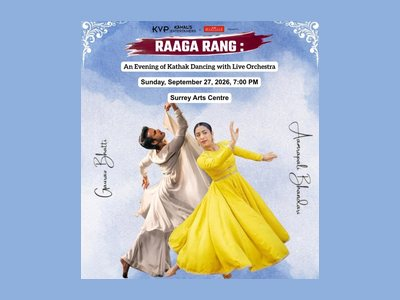
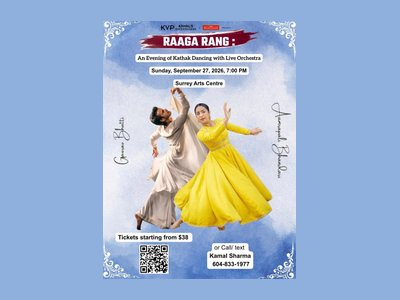
Give each event the full detail from its poster and its box office
An event listing now carries who dances, who plays, who composed and directed
the work, the running time, the street address, and every way to book. The
artist detail comes from sources outside the source post: The Dance Centre for
Gaurav Bhatti, the Singapore Indian Fine Arts Society for Amrapali Bhandari,
and tanveerdance.com for Tanveer Alam.

A booking number is published to sell tickets, so an event may print one. The
Raaga Rang plate is the whole poster again, with its QR code and its booking
number. The rule against a personal phone number still holds for an artist
listing.

diff --git a/CLAUDE.md b/CLAUDE.md
@@ -145,8 +145,16 @@ image: 2026-09-14-recital       # optional, a set in assets/events/
 credit: Photographer Name       # optional, shown under the event
 ---
 
-Two or three factual sentences.
+Four to eight factual sentences. Give the reader the detail that the poster
+and the box office carry: who dances, who plays, who composed and directed the
+work, the running time, the street address, and every way to book. Research
+the artists outside the source post and name their training and their gurus.
 ```
+
+An event may carry a phone number when the poster or the box office prints one
+for booking. That number is published for the event, so it is not a personal
+contact. The rule against personal phone numbers still holds for an artist
+listing in `_artists/`.
 
 **Do not name the link field `url`.** Jekyll defines `url` on every document.
 A front matter `url:` is ignored, and the rendered link points to a
@@ -237,7 +245,9 @@ string. The request never leaves the Cloudflare edge, so the site needs no
 ## Editorial principles
 
 - **Public information only** — websites, public Instagram, neighborhood-level
-  location. Never home addresses or personal phone numbers.
+  location. Never home addresses. Never a personal phone number in an artist
+  listing. An event may carry the booking number that its poster or its box
+  office prints, because that number is published to sell tickets.
 - **Free** — no ads, no marketplace, no payment.
 - **Removal on request** — anyone listed can ask to be edited or removed at
   `hello@kathakvancouver.com` (see `/submit/`).

diff --git a/_events/2026-10-25-tanveer-alam-kathak.md b/_events/2026-10-25-tanveer-alam-kathak.md
@@ -11,11 +11,14 @@ image: 2026-10-25-tanveer-alam-kathak
 credit: Srivatsa Shandilya and One Frame Story Photography. Poster by little bird creative.
 ---
 
-Toronto Kathak artist Tanveer Alam performs at the Roundhouse. Alam trained
-with Sudeshna Maulik, Sandhya Desai, Pandita Shama Bhate, and Sanjukta Sinha,
-and has danced at the New York Kathak Festival and Fall For Dance North.
-Mandala Arts and Culture Society presents the show with the Roundhouse
-Community Arts and Recreation Centre. It closes a weekend of Indian classical
-dance that opens on Saturday, October 24 with Bharatanatyam by Meera
-Sreenarayanan. Each artist needs a separate ticket, and seating is festival
-seating.
+Toronto Kathak artist Tanveer Alam performs at the Roundhouse Performance
+Centre, 181 Roundhouse Mews. Alam trained with Sudeshna Maulik, Sandhya Desai,
+Pandita Shama Bhate, and Sanjukta Sinha, and now works with Harikishan S. Nair
+and Dheerendra Tiwari. Alam has danced at the New York Kathak Festival, Fall
+For Dance North, the Aga Khan Museum, and the Vasantotsava Kathak Festival in
+New Delhi, and holds the Eldred Family Protégé award from the Ontario Arts
+Foundation. Mandala Arts and Culture Society presents the show with the
+Roundhouse Community Arts and Recreation Centre. It closes a weekend of Indian
+classical dance that opens on Saturday, October 24 at 7:30 PM with
+Bharatanatyam by Meera Sreenarayanan. Each artist needs a separate ticket, and
+seating is festival seating. For information, write to govindajai@yahoo.com.

diff --git a/_events/2026-09-27-raaga-rang.md b/_events/2026-09-27-raaga-rang.md
@@ -10,8 +10,17 @@ price: "$28.75, $38.75, and $53.75"
 image: 2026-09-27-raaga-rang
 ---
 
-Kathak dancers Gaurav Bhatti and Amrapali Bhandari perform with a live
-ensemble. The musicians are Varijashree Venugopal and Dr. Deepak Paramashivan
-on vocals, Gurumurthy on tabla, Atish Mukhopadyay on sarod, Shruti Kamath on
-sitar, and John Calverley on violin. Praveen D. Rao composed the music, and
-Usha Gupta is the artistic director. The programme runs 90 minutes.
+KVP Heritage Society presents an evening of classical Kathak with a live
+ensemble. Gaurav Bhatti and Amrapali Bhandari dance. Bhatti grew up in Punjab,
+trained in Kathak and in the Uday Shankar style, and has worked with the Aditi
+Mangaldas Dance Company in India and the Aakash Odedra Company in the United
+Kingdom. Bhandari trained at Kathak Kendra in New Delhi under Guru Rajendra
+Gangani, danced with the Aditi Mangaldas Dance Company from 2015 to 2018, and
+now teaches Kathak at the Singapore Indian Fine Arts Society. The musicians are
+Varijashree Venugopal and Dr. Deepak Paramashivan on vocals, Gurumurthy on
+tabla, Atish Mukhopadyay on sarod, Shruti Kamath on sitar, and John Calverley
+on violin. Praveen D. Rao composed the music, and Usha Gupta is the artistic
+director. The programme runs 90 minutes at 13750 88 Avenue, Surrey. This is the
+second production by Usha Gupta and KVP Heritage Society, after Khoj in 2024.
+Book online, call the Surrey Arts Centre box office at 604-501-5580, or call or
+text Kamal Sharma at 604-833-1977.
